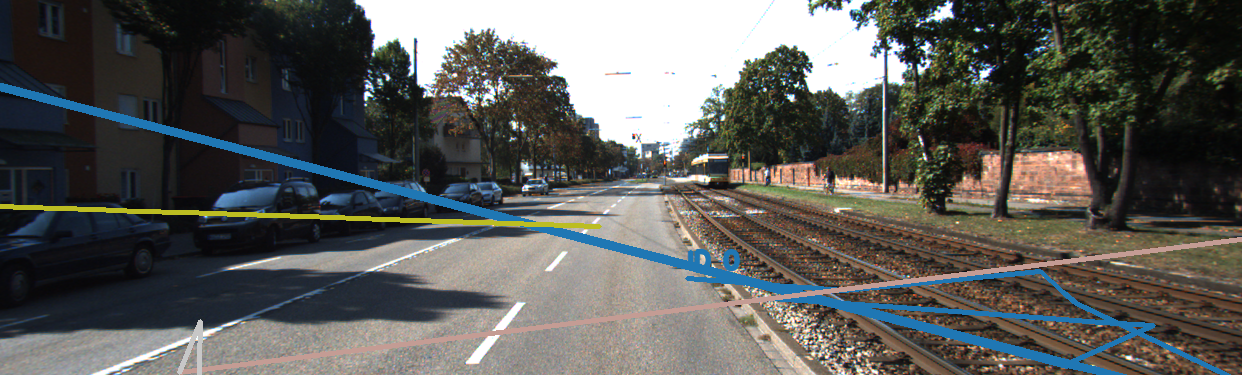
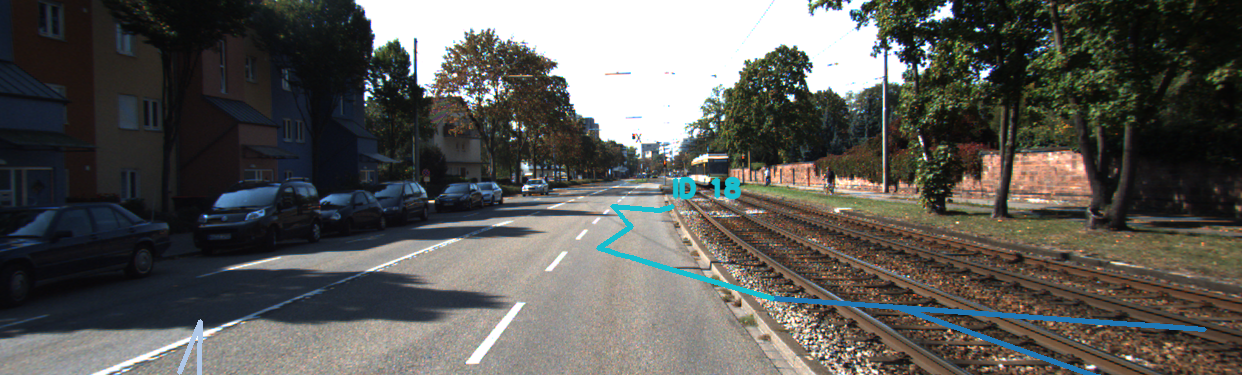
Cleaned up the README

diff --git a/README.md b/README.md
@@ -212,7 +212,7 @@ This project is licensed under the **MIT License**. See the [LICENSE](LICENSE) f
 
 ## About Me
 
-I am passionate about robotics, autonomous vehicles, and AI-powered perception systems. This project reflects my work in sensor fusion, multi-object tracking, and LLM integration for explainability.
+My name is Koutilya Ganapathiraju. I am currently a student at Texas A&M University - College Station, studying Mathematics. For some time now, I have been passionate about robotics, autonomous vehicles, and AI-powered perception systems. This project reflects my work in sensor fusion, multi-object tracking, and LLM integration for explainability. Feel free to contact me.
 
 **Contact:**  
 - [GitHub](https://github.com/GKoutilya)  
